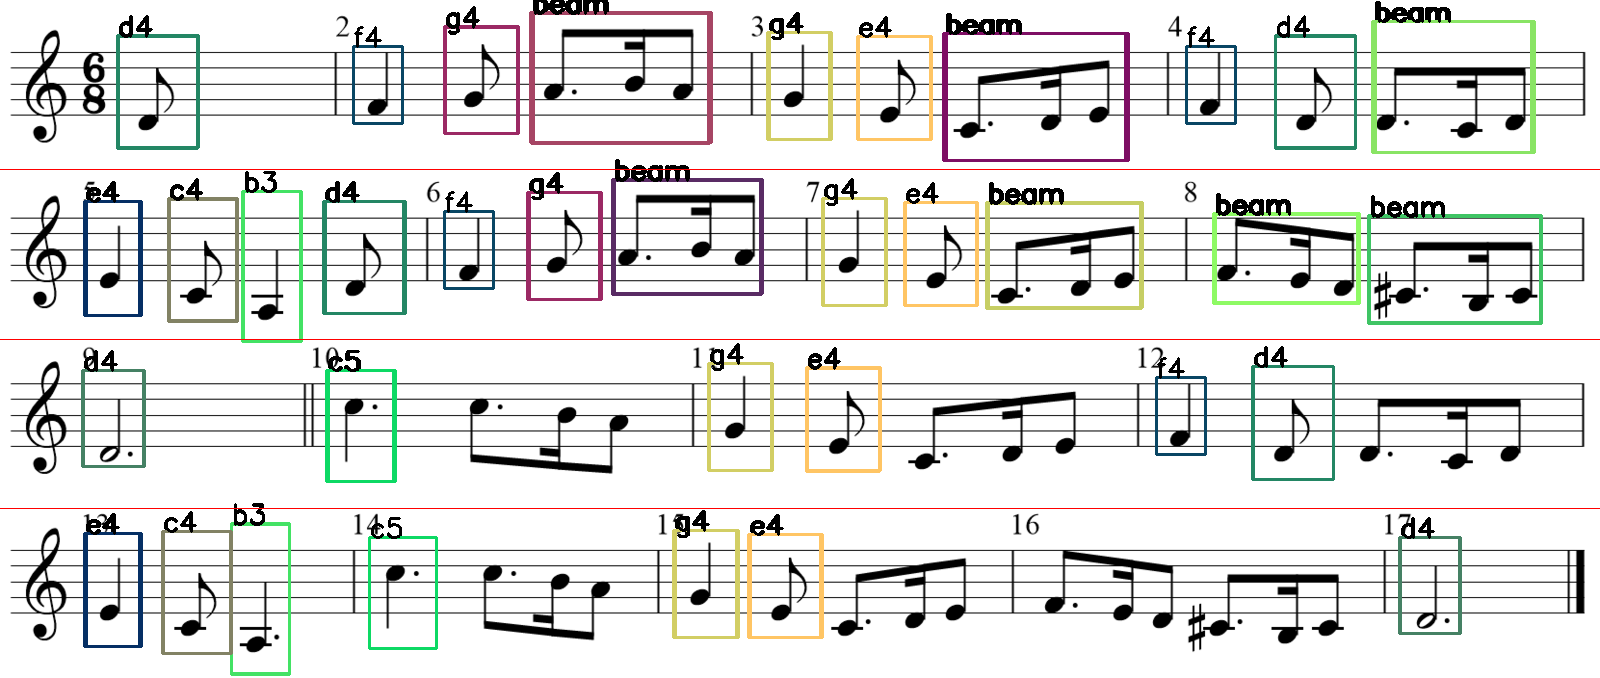
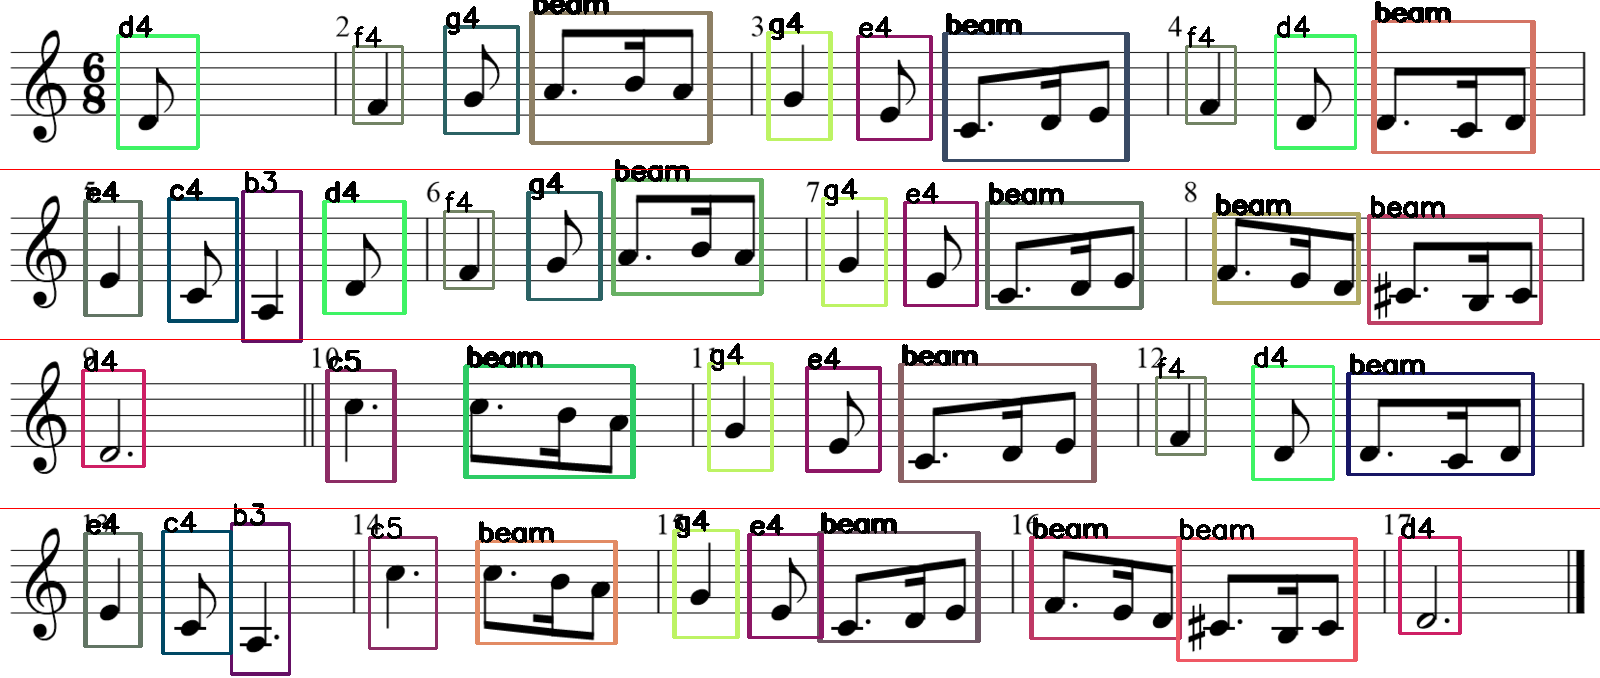
added all the templates

diff --git a/multi.py b/multi.py
@@ -33,6 +33,13 @@ note_files = [
     "template/beam_a4_150_b4_quarter_a4_half.png",
     "template/beam_d4_75_c4_quarter_d4_half.png",
     "template/beam_c5_75_b4_25_c5_half.png",
+    "template/beam_c5_1half_b4_quarter_a4_half.png",
+    "template/beam_c5_150_b4_quarter_a4_half.png",
+    "template/beam_c4_75_d4_25_e4_50.png",
+    "template/beam_c4_75_d4_quarter_e4_50.png",
+    "template/beam_a4_150_e4_quarter_d4_50.png",
+    "template/beam_d4_75_c4_quarter_d4_50.png",
+    "template/beam_c5_75_b4_25_c5_50.png",
     "template/b3_1.png",
     "template/c4_half.png",
     "template/d4_3.png",
@@ -63,7 +70,7 @@ for t in note_files:
     pitch = file_name.split("_")[0][1]
     beat = file_name.split("_")[1]
 
-    if beat == "half":
+    if beat == "half" or beat == "50":
       beat = "0.5"
     elif beat == "1half" or beat == "150":
       beat = "1.5"
@@ -81,11 +88,11 @@ for t in note_files:
       pitch = beam_check[i][1]
       beat = beam_check[i + 1]
 
-      if beat == "half":
+      if beat == "half" or beat == "50":
         beat = "0.5"
-      elif beat == "1half":
+      elif beat == "1half" or beat == "150":
         beat = "1.5"
-      elif beat == "quarter":
+      elif beat == "quarter" or beat == "25":
         beat = "0.25"
       elif beat == "75":
         beat = "0.75"
